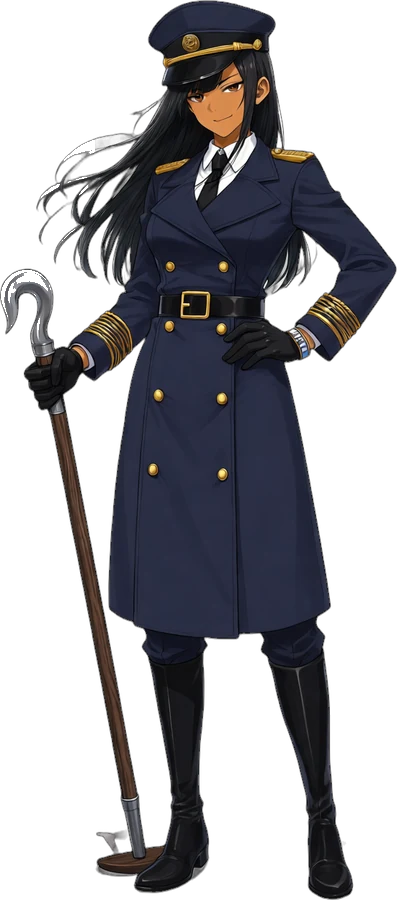
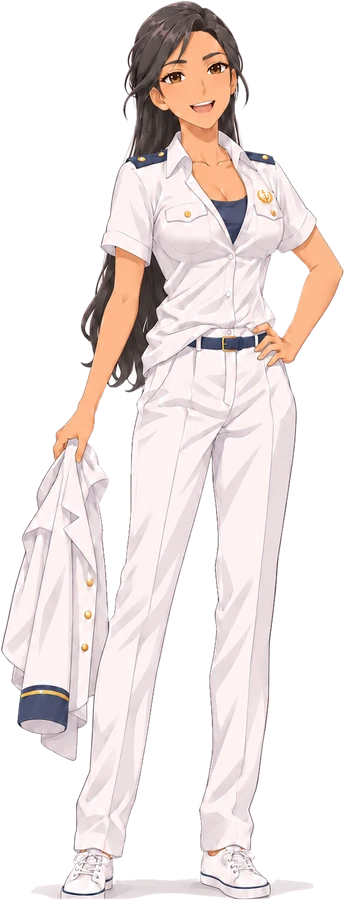
マリナを白い制服の新デザイン(v8)に描き替え(立ち絵・顔)
Claude-Session: https://claude.ai/code/session_01GpeKDhxNssKAGTgsZyP1St

diff --git a/proto/world_v2/proto/greece_town.html b/proto/world_v2/proto/greece_town.html
@@ -2749,7 +2749,8 @@ function fillT(t){ const g=SAVE?SAVE.g:'m'; return t.replace(/\{hero\}/g,SAVE?SA
 // 立ち絵の向き(絵ごと)。index.json を読むまでは全員右向きとして扱う
 const PFACE={}; fetch(PDIR+'index.json').then(r=>r.json()).then(j=>{ for(const k in j.chars){ const f=j.chars[k].facing||{}; for(const e in f) PFACE[PDIR+k+'_'+e+'.webp']=f[e]; } }).catch(()=>{});
 function pFace(img,side){ const src=img.getAttribute('src')||''; const f=PFACE[src]||'right'; const want=side==='L'?'right':'left'; img.style.setProperty('--fx',(f==='front'||f===want)?'1':'-1'); }
-function pSrc(who,face){ const k=who==='hero'?'hero_'+(SAVE?SAVE.g:'m'):who; const f=FACES[k]; if(!f) return null; return PDIR+k+'_'+(f.includes(face)?face:'normal')+'.webp'; }
+function pSrc(who,face){ const k=who==='hero'?'hero_'+(SAVE?SAVE.g:'m'):who; const f=FACES[k]; if(!f) return null; return PDIR+k+'_'+(f.includes(face)?face:'normal')+'.webp'+(PVER[k]?'?v='+PVER[k]:''); }
+const PVER={marina:'20261118w'};   // 2026-11-18 マリナを白い制服に描き替え(古い絵が残らないように)
 for(const im of [ST.L,ST.R,ST.R2]) im.onerror=()=>im.classList.add('off');
 const PIMG={}; let ADV=null; function advance(){ if(ADV){ const f=ADV; ADV=null; f(); } }
 ST.box.addEventListener('click',e=>{ e.stopPropagation(); advance(); });
@@ -3546,7 +3547,7 @@ const GR_GUIDE_ART={
   // 2026-11-17 オーナー「PixAIで元の絵のモデルから作って立たせて」: 上の5人(ひざ下が切れていた設定画)は PixAI で足を描き足して全身に(cutなし)。
   //  アナ=2話の原画から・マリナ/ノモス/ヤニス=台本の人物設定から PixAI で全身を描いた(画風は設定画を横に置いて合わせた)・おばあさん=設定画 C9 白衣案
   ana:{img:'../v3/chars/ana_stand.webp', h:1.34, n:'アナ', guest:1},
-  marina:{img:'../v3/chars/marina_stand.webp', h:1.38, n:'マリナ', guest:1},
+  marina:{img:'../v3/chars/marina_stand.webp?v=20261118w', h:1.38, n:'マリナ', guest:1},
   nomos:{img:'../v3/chars/nomos_stand.webp', h:1.44, n:'ノモス', guest:1},
   stavros:{img:'../v3/chars/stavros_stand.webp', h:1.46, n:'ヤニス', guest:1},
   oba:{img:'../v3/chars/oba_stand.webp', h:1.33, n:'おばあさん', guest:1} };
@@ -3989,7 +3990,7 @@ function grInit(){ Object.assign(SC,GR_SC);
   grBuild();
   { const _at=arriveTown; arriveTown=async function(){ await _at(); grArrive(); }; }   // 第1話: 村に下りたら、そのまま続きを流す
   for(const m of new Set(GR_STEPS.map(s=>s.map).concat(GR_STEPS.map(s=>s.to).filter(Boolean)))) AREA_RULE[m+':*']=f=>{ const s=grCur(); return (s&&grHere(s))?grRun:null; };
-  window.GR_DBG={ noFace:()=>{ const o={}; for(const s of GR_STEPS){ const L=(s.kind==='scene'?(GR_SC[s.key]||SC[s.key]):null)||[]; for(const x of L){ if(!x||!x.w||!x.t||x.w==='partner'||x.np) continue; if(!pSrc(x.w,x.f||'normal')){ const k=x.w+'/'+(x.n||''); o[k]=(o[k]||0)+1; } } } return o; }, enc:()=>{ const m=MONS.filter(m=>m.wild&&!m.gone).map(m=>({id:m.o.id,d:Math.hypot(m.x-HERO.x,m.z-HERO.z)})).sort((a,b)=>a.d-b.d)[0]; return {noEnc:!!WORLD.noEnc,ENC:!!ENC,STORY:!!STORY,TRANS:!!TRANS,BRIEF:!!BRIEF,encCool,hero:!!READY.hero,town:inTown(HERO.x,HERO.z),wildOk:grWildOk(),near:m}; }, cur:()=>{ const s=grCur(); return s&&{id:s.id,ep:s.ep,map:s.map,at:s.at,kind:s.kind}; }, steps:GR_STEPS, run:()=>grRun(), here:()=>grHere(grCur()), obj:()=>grObjText(GF()), retry:()=>GR_RETRY, art:GR_GUIDE_ART, elly:()=>GR_ELLY, onScreen:(x,z)=>grOnScreen(x,z), auto:(v)=>{ AUTO=v; }, cast:(w,x,z)=>{ const m=grSprite(w); grPlace(m,x,z); return m; },
+  window.GR_DBG={ scene:(L,o)=>runScene(L,o), noFace:()=>{ const o={}; for(const s of GR_STEPS){ const L=(s.kind==='scene'?(GR_SC[s.key]||SC[s.key]):null)||[]; for(const x of L){ if(!x||!x.w||!x.t||x.w==='partner'||x.np) continue; if(!pSrc(x.w,x.f||'normal')){ const k=x.w+'/'+(x.n||''); o[k]=(o[k]||0)+1; } } } return o; }, enc:()=>{ const m=MONS.filter(m=>m.wild&&!m.gone).map(m=>({id:m.o.id,d:Math.hypot(m.x-HERO.x,m.z-HERO.z)})).sort((a,b)=>a.d-b.d)[0]; return {noEnc:!!WORLD.noEnc,ENC:!!ENC,STORY:!!STORY,TRANS:!!TRANS,BRIEF:!!BRIEF,encCool,hero:!!READY.hero,town:inTown(HERO.x,HERO.z),wildOk:grWildOk(),near:m}; }, cur:()=>{ const s=grCur(); return s&&{id:s.id,ep:s.ep,map:s.map,at:s.at,kind:s.kind}; }, steps:GR_STEPS, run:()=>grRun(), here:()=>grHere(grCur()), obj:()=>grObjText(GF()), retry:()=>GR_RETRY, art:GR_GUIDE_ART, elly:()=>GR_ELLY, onScreen:(x,z)=>grOnScreen(x,z), auto:(v)=>{ AUTO=v; }, cast:(w,x,z)=>{ const m=grSprite(w); grPlace(m,x,z); return m; },
     goal:()=>{ const s=grCur(); if(!s||s.kind!=='go') return null; const e=grExitTo(s.to); const w=D.walk||D.bounds, r=e&&e.r, cl=(v,a,b)=>Math.max(a+0.05,Math.min(b-0.05,v)); return {map:MAP,to:s.to,hop:grNextHop(MAP,s.to),r, p:r?[cl(cl((r[0]+r[2])/2,r[0],r[2]),w[0],w[2]),cl(cl((r[1]+r[3])/2,r[1],r[3]),w[1],w[3])]:null}; }, extras:()=>Object.keys(GR_EXM), gnd:(x,z)=>groundAt(x,z), path:(x0,z0,x1,z1)=>grFrPath(x0,z0,x1,z1), areaPt:(n)=>{ delete GR_CASTPT[MAP+':'+n]; return grCastPt(n); }, guide:()=>GR_GUIDE&&{id:GR_GUIDE.id,x:GR_GUIDE.x,z:GR_GUIDE.z,walk:GR_GUIDE.walk,lead:!!GR_GUIDE.lead,mem:Object.fromEntries(Object.entries(GR_GUIDE.mem).map(([k,m])=>[k,[+m.x.toFixed(1),+m.z.toFixed(1)]]))}, st:()=>({TRANS:!!TRANS,STORY:!!STORY,ENC:!!ENC,BRIEF:!!BRIEF,PAUSED:!!PAUSED,EVOFX:!!EVOFX,hero:[HERO.x,HERO.z],ok:D.exits.map(e=>e.to+':'+(e.need||'')+':'+grExitOk(e))}),
     fuseFx:(id)=>fuseFxShow(id), skipTo:(ep)=>{ const f=GF(); f.g22=1; f.g22b=1; f.g22c=1; for(const s of GR_STEPS){ if(s.ep>=ep) break; f[s.id]=1; if(s.last) f['a'+pad2g(s.ep)]=1; } f.gr_bond=1; if(ep>4&&SAVE.unlock) SAVE.unlock.evo=true; if(ep>11&&SAVE.unlock) SAVE.unlock.fusion=true; saveGame(); objUpdate(); } }; }
 
